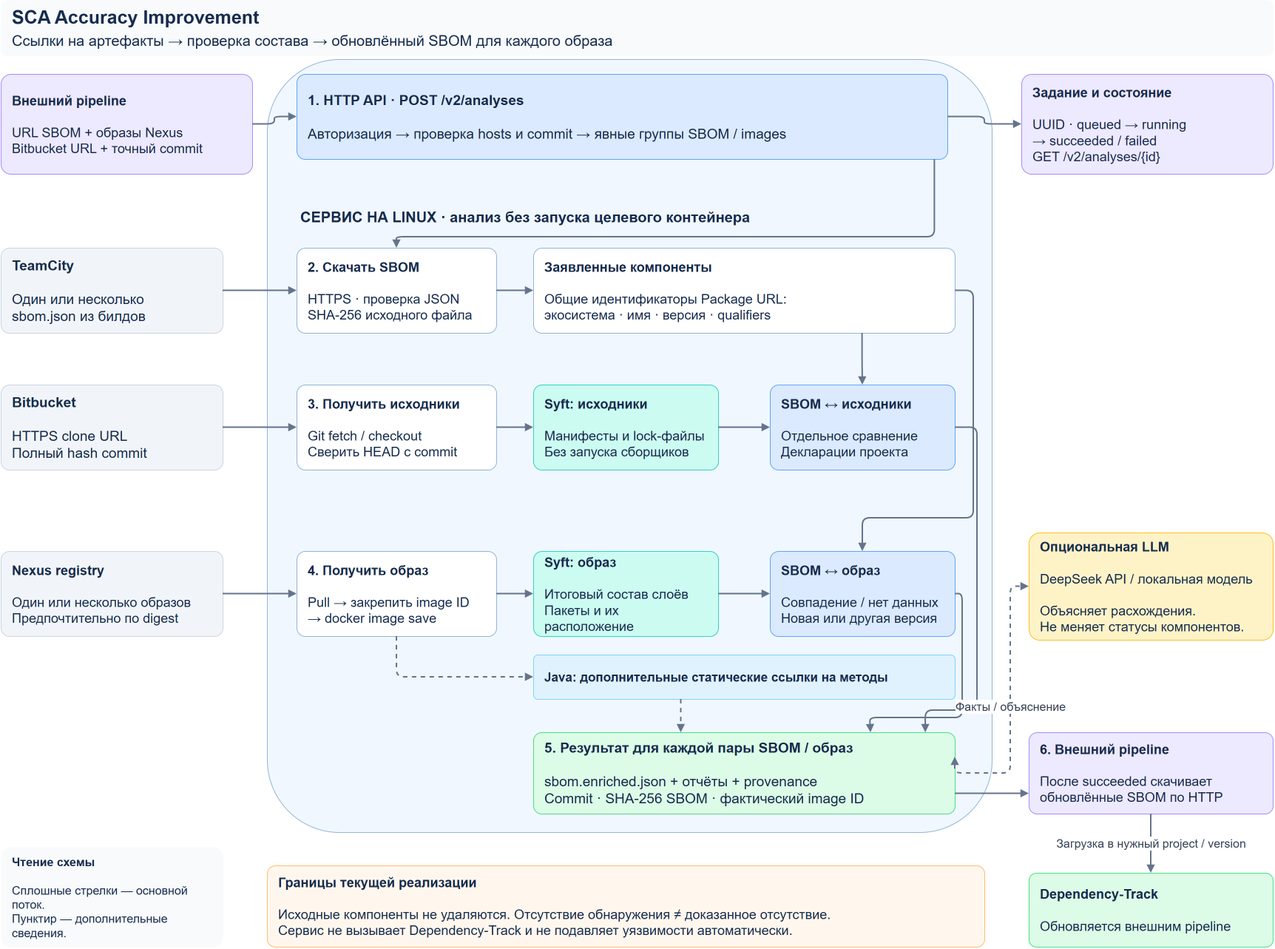
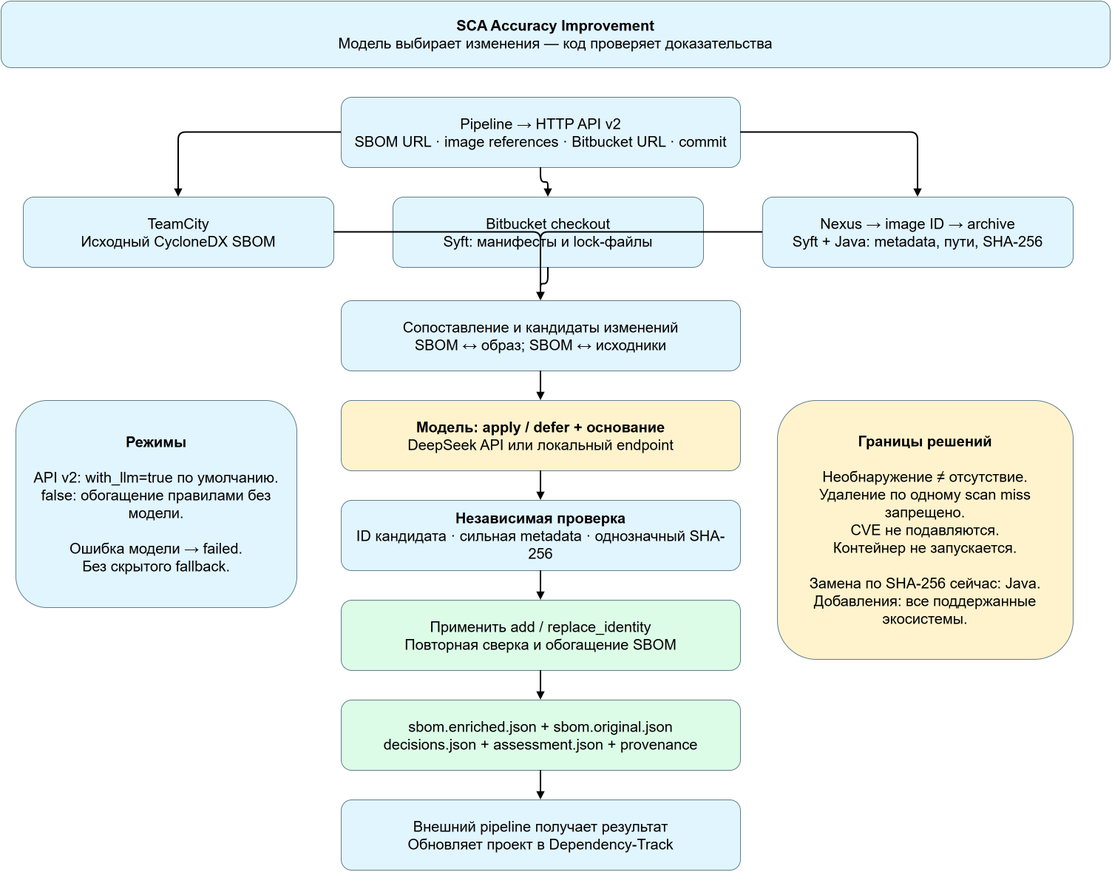
feat: enable model decisions in remote API and document workflow

diff --git a/docs/diagrams/system-workflow.html b/docs/diagrams/system-workflow.html
@@ -9,9 +9,9 @@
 </style>
 </head>
 <body>
-<header><small>SCA ACCURACY IMPROVEMENT / АРХИТЕКТУРА</small><h1>Как создаётся обновлённый SBOM</h1><p>Нажмите на узел: справа появятся его входы, действия, результат и границы ответственности. Два режима разделяют работающий код и предлагаемую роль модели.</p></header>
+<header><small>SCA ACCURACY IMPROVEMENT / АРХИТЕКТУРА</small><h1>Как создаётся обновлённый SBOM</h1><p>Нажмите на узел: справа появятся его входы, действия, результат и границы ответственности. Два реализованных режима: правила и проверяемые решения модели.</p></header>
 <main class="shell">
-<div class="toolbar" aria-label="Вариант архитектуры"><button type="button" class="mode" id="current" aria-pressed="true">Сейчас в коде</button><button type="button" class="mode" id="proposed" aria-pressed="false">Модель в центре · предложение</button></div>
+<div class="toolbar" aria-label="Вариант архитектуры"><button type="button" class="mode" id="current" aria-pressed="true">Без модели</button><button type="button" class="mode" id="proposed" aria-pressed="false">Модель + валидатор</button></div>
 <p id="notice"></p>
 <div class="layout"><section class="canvas" aria-label="Интерактивная схема потока данных"><svg id="wires" aria-hidden="true"><defs><marker id="arrow" markerWidth="8" markerHeight="8" refX="7" refY="4" orient="auto"><path d="M0,0 L8,4 L0,8 Z" fill="#92a7b6"/></marker></defs><g id="paths"></g></svg><div id="graph" class="graph"></div><div class="legend"><span>Основной поток данных</span><span>Дополнительные пояснения</span></div></section><aside id="detail" aria-live="polite" aria-label="Пояснение выбранного узла"></aside></div>
 <noscript><p class="nojs">Для раскрытия узлов включите JavaScript. Статическая схема доступна в <a href="system-workflow.png">PNG</a>.</p></noscript>
@@ -28,24 +28,24 @@ const data={
  srcscan:{title:'Syft: исходники',tag:'Декларации',sub:'Манифесты и lock-файлы',kind:'scan',summary:'Отдельный каталог того, что видно в checkout.',inputs:['Исходники выбранного commit.'],actions:['Прочитать поддерживаемые манифесты, lock-файлы и metadata.','Не запускать Maven, npm, pip install или приложение.'],outputs:['source.syft.json и сравнение SBOM ↔ исходники.'],limit:'Декларация зависимости не доказывает её попадание в образ. Это не resolution оригинального билда.',code:'catalog.py · scan(); pipeline.py · source_items'},
  imgscan:{title:'Syft: образ',tag:'Наблюдения',sub:'Пакеты и расположение',kind:'scan',summary:'Каталог компонентов итоговой файловой системы образа.',inputs:['Архив Docker image.'],actions:['Прочитать итоговое содержимое слоёв и доступные package metadata.','Дополнительно извлечь статические JVM-ссылки нашим Java-анализатором.'],outputs:['image.syft.json, наблюдения о версиях, путях и JVM-ссылках.'],limit:'Syft не ищет CVE и не определяет runtime execution. Shading, bundling и stripped binaries могут скрыть пакеты.',code:'catalog.py · observations_from_catalog(); image.py'},
  reconcile:{title:'Сопоставление и доказательства',tag:'Правила общего ядра',sub:'Два сравнения: SBOM ↔ образ и SBOM ↔ исходники',kind:'core',summary:'В текущем коде статусы определяются правилами, до обращения к модели.',inputs:['Нормализованный SBOM, каталог образа, каталог исходников.'],actions:['Сопоставить пакет и версию; выявить новые пакеты и конфликты.','Сохранить source evidence отдельно; не считать его доказательством поставки.'],outputs:['confirmed_present, version_conflict, observed_not_declared, unexpected_absent, expected_absent или identity_uncertain.'],limit:'unexpected_absent означает «не обнаружен», а не доказанное отсутствие. Maven scope учитывается только при отдельной передаче дерева локальному CLI.',code:'pipeline.py · reconcile(); sbom.py'},
- builder:{title:'Сформировать enriched SBOM',tag:'Кто изменяет документ сейчас',sub:'Детерминированные правила',kind:'output',summary:'Эта функция сейчас определяет изменения в выходном SBOM.',inputs:['Исходный SBOM и результаты сопоставления.'],actions:['Скопировать исходный документ.','Добавить статусы и evidence; включить новые обнаруженные компоненты.','Конфликтующие версии записать как аннотации, не заменяя исходные.'],outputs:['sbom.enriched.json; исходные компоненты сохраняются.'],limit:'Функция вызывается до LLM. Ответ модели ей не передаётся. Автоматического удаления компонентов нет.',code:'pipeline.py · enriched = enrich_sbom(...); sbom.py'},
+ builder:{"title": "Обогатить по правилам", "tag": "with_llm=false", "sub": "Режим без модели", "kind": "output", "summary": "Прежнее обогащение состава по фиксированным правилам.", "inputs": ["Исходный SBOM и наблюдения."], "actions": ["Добавить обнаруженные пакеты; аннотировать расхождения."], "outputs": ["sbom.enriched.json"], "limit": "Удаления и замены версий не выполняются.", "code": "sbom.py · enrich_sbom()"},
  llm:{title:'LLM: объяснить расхождения',tag:'Сейчас: опционально',sub:'DeepSeek API или локальная модель',kind:'model',summary:'Модель консультирует; решение о составе SBOM уже принято правилами.',inputs:['Структурированные discrepancies, source evidence, coverage; findings при их наличии.'],actions:['При with_llm=true и наличии расхождений/findings вернуть объяснение.','Предложить гипотезы и перечислить недостающие доказательства.'],outputs:['summary, hypotheses, warnings → отчёт.'],limit:'Ответ LLM не меняет enriched SBOM и статусы. Ошибка включённой модели сейчас завершает задание ошибкой.',code:'llm.py · analyze(); pipeline.py · llm_analysis'},
  result:{title:'Результаты задания',tag:'Отдельно для каждой пары',sub:'Обновлённый SBOM + отчёты + provenance',kind:'output',summary:'Результаты публикуются после успеха всех пар задания.',inputs:['Enriched SBOM, результаты сравнения и пояснения модели, если включена.'],actions:['Записать файлы и provenance: commit, SBOM URL и SHA-256, image ID.','Выдать ссылки на скачивание через HTTP API.'],outputs:['sbom.enriched.json, assessment.json, source-assessment.json, coverage.json, provenance.json, report.html.'],limit:'При ошибке любой пары задание failed, скачивание частичных результатов через API заблокировано. V2 не создаёт VEX и не вызывает Dependency-Track.',code:'remote.py · run_remote(); report.py · write_outputs()'},
  consumer:{title:'Внешний pipeline',tag:'Получение файлов',sub:'Дождаться succeeded и скачать SBOM',kind:'source',summary:'Внешняя система управляет дальнейшим использованием результата.',inputs:['UUID задания и список result.targets.'],actions:['Опросить статус и скачать SBOM для нужного target_id.','Выбрать соответствующий проект/version в Dependency-Track.'],outputs:['Обновлённый SBOM для внешней загрузки.'],limit:'Разные образы не объединяются автоматически в один BOM.',code:'GET /v2/analyses/{id}/targets/{target_id}/artifacts/sbom.enriched.json'},
  dtrack:{title:'Dependency-Track',tag:'За пределами сервиса',sub:'Обновление проекта внешней системой',kind:'output',summary:'Последующая обработка обновлённого SBOM в целевом проекте.',inputs:['Файл enriched SBOM, загруженный внешним pipeline.'],actions:['Обновить инвентаризацию и выполнить анализ уязвимостей в Dependency-Track.'],outputs:['Обновлённые данные проекта и findings.'],limit:'Наш сервис не выбирает UUID проекта, не пересчитывает критичность и не подавляет findings.',code:'Отдельная внешняя интеграция'},
- modeldecision:{title:'LLM: предложить корректировки',tag:'Предложение · не реализовано',sub:'Основной аналитический этап',kind:'model',summary:'Это соответствует исходному замыслу: модель анализирует доказательства и предлагает изменения SBOM.',inputs:['SBOM, каталоги образа и исходников, расхождения, ссылки на evidence.'],actions:['Разобрать неоднозначные идентичности и версии.','Сформировать структурированный план изменений с обоснованиями и ссылками на доказательства.','Воздержаться от изменения, если данных недостаточно.'],outputs:['План: добавить, уточнить, пометить как сомнительное; основание для каждого действия.'],limit:'Такого контракта ответа и применения изменений в текущем коде нет. Это архитектурное предложение, а не работающая функция.',code:'Нужен отдельный контракт proposed_changes'},
- gate:{title:'Проверить план модели',tag:'Предложение · не реализовано',sub:'Evidence, допустимые операции и структура',kind:'core',summary:'Модель предлагает смысл изменений, код проверяет возможность их применения.',inputs:['План модели и исходные доказательства.'],actions:['Проверить ссылки на evidence, исходные идентификаторы и допустимость операции.','Не разрешать удаление только на основании «не найдено».','Отклонить неподтверждённые изменения и сохранить причины.'],outputs:['Проверенный план изменений или явный отказ.'],limit:'Проверка структуры не доказывает истинность решения модели. Нужны golden-наборы и измерение качества.',code:'Нужен валидатор изменений и policy'},
- apply:{title:'Применить проверенный план',tag:'Предложение · не реализовано',sub:'Сериализация и журнал изменений',kind:'output',summary:'Код создаёт документ по плану модели, прошедшему проверку.',inputs:['Исходный SBOM и разрешённые изменения.'],actions:['Применить операции и сохранить журнал до/после.','Проверить итоговый CycloneDX и сохранить provenance.'],outputs:['Обновлённый SBOM и аудируемое обоснование каждого изменения.'],limit:'Не реализовано. Это будет отличаться от существующего enrich_sbom(), работающего по фиксированным правилам.',code:'Нужен исполнитель плана и проверки выходного BOM'}
+ modeldecision:{"title": "Модель: выбрать изменения", "tag": "with_llm=true · API v2 default", "sub": "DeepSeek / локальный endpoint", "kind": "model", "summary": "Модель принимает аналитическое решение для каждого доказуемого кандидата.", "inputs": ["Расхождения, кандидаты с ID, source evidence, coverage."], "actions": ["Выбрать apply или defer; объяснить основание.", "Вернуть структурированный JSON."], "outputs": ["decisions: candidate_id, action, reason."], "limit": "Ответ не является произвольным патчем. Ошибка модели завершает задание.", "code": "llm.py · analyze()"},
+ gate:{"title": "Проверить доказательства", "tag": "Обязательный валидатор", "sub": "Кандидаты пересчитываются кодом", "kind": "core", "summary": "Валидатор ограничивает изменения фактами сканирования.", "inputs": ["План модели, исходный SBOM, наблюдения."], "actions": ["Проверить ID и допустимую операцию.", "Для замены проверить однозначный SHA-256; для добавления — metadata."], "outputs": ["Принятые, отклонённые, отложенные, нерассмотренные решения."], "limit": "Необнаружение не разрешает удаление. CVE не подавляются.", "code": "decisions.py · candidates(), apply_plan()"},
+ apply:{"title": "Применить и сверить SBOM", "tag": "Сборщик документа", "sub": "Изменения → повторная сверка", "kind": "output", "summary": "Модель влияет на состав итогового документа через проверенный план.", "inputs": ["Принятые add / replace_identity."], "actions": ["Добавить пакет или исправить идентичность с сохранением bom-ref.", "Повторить reconcile; добавить аннотации и provenance."], "outputs": ["sbom.enriched.json, sbom.original.json, decisions.json."], "limit": "Хеши сейчас связаны с файлами Java. Без доказательств старые версии сохраняются.", "code": "pipeline.py · apply_plan() → reconcile() → enrich_sbom()"},
 };
-const graphs={current:{rows:[['request'],['sbom','source','image'],['identity','srcscan','imgscan'],['reconcile'],['builder','llm'],['result'],['consumer','dtrack']],edges:[['request','sbom'],['request','source'],['request','image'],['sbom','identity'],['source','srcscan'],['image','imgscan'],['identity','reconcile'],['srcscan','reconcile'],['imgscan','reconcile'],['reconcile','builder'],['reconcile','llm',true],['builder','result'],['llm','result',true],['result','consumer'],['consumer','dtrack']]},proposed:{rows:[['request'],['sbom','source','image'],['identity','srcscan','imgscan'],['reconcile'],['modeldecision'],['gate'],['apply'],['result'],['consumer','dtrack']],edges:[['request','sbom'],['request','source'],['request','image'],['sbom','identity'],['source','srcscan'],['image','imgscan'],['identity','reconcile'],['srcscan','reconcile'],['imgscan','reconcile'],['reconcile','modeldecision'],['modeldecision','gate'],['gate','apply'],['apply','result'],['result','consumer'],['consumer','dtrack']]}};
+const graphs={current:{rows:[['request'],['sbom','source','image'],['identity','srcscan','imgscan'],['reconcile'],['builder'],['result'],['consumer','dtrack']],edges:[['request','sbom'],['request','source'],['request','image'],['sbom','identity'],['source','srcscan'],['image','imgscan'],['identity','reconcile'],['srcscan','reconcile'],['imgscan','reconcile'],['reconcile','builder'],['builder','result'],['result','consumer'],['consumer','dtrack']]},proposed:{rows:[['request'],['sbom','source','image'],['identity','srcscan','imgscan'],['reconcile'],['modeldecision'],['gate'],['apply'],['result'],['consumer','dtrack']],edges:[['request','sbom'],['request','source'],['request','image'],['sbom','identity'],['source','srcscan'],['image','imgscan'],['identity','reconcile'],['srcscan','reconcile'],['imgscan','reconcile'],['reconcile','modeldecision'],['modeldecision','gate'],['gate','apply'],['apply','result'],['result','consumer'],['consumer','dtrack']]}};
 let mode='current', selected='builder';
 const graph=document.getElementById('graph'),detail=document.getElementById('detail'),canvas=document.querySelector('.canvas');
-function nodeData(id){const item={...data[id]};if(mode==='proposed'&&id==='reconcile'){item.summary='Предлагается использовать правила как подготовку evidence для модели, а не как окончательное решение.';item.limit='Изменение роли этого этапа пока не реализовано.'}if(mode==='proposed'&&id==='result'){item.inputs=['SBOM после применения проверенного плана модели и журнал изменений.'];item.limit='Показанный путь с планом модели — предложение. Текущий сервис формирует SBOM по фиксированным правилам.'}return item}
+function nodeData(id){return {...data[id]}}
 function section(label,items){const s=document.createElement('section'),h=document.createElement('h3'),ul=document.createElement('ul');h.textContent=label;items.forEach(value=>{const li=document.createElement('li');li.textContent=value;ul.append(li)});s.append(h,ul);return s}
 function select(id){selected=id;const item=nodeData(id);document.querySelectorAll('.node').forEach(button=>{button.setAttribute('aria-pressed',String(button.dataset.id===id));button.classList.toggle('linked',graphs[mode].edges.some(([a,b])=>(a===id&&b===button.dataset.id)||(b===id&&a===button.dataset.id)))});detail.replaceChildren();const top=document.createElement('div');top.className='detail-top';const tag=document.createElement('small'),title=document.createElement('h2'),summary=document.createElement('p');tag.textContent=item.tag;title.textContent=item.title;summary.textContent=item.summary;top.append(tag,title,summary);const body=document.createElement('div');body.className='details';body.append(section('Вход',item.inputs),section('Что делает',item.actions),section('Выход',item.outputs));const limits=document.createElement('div');limits.className='limits';limits.textContent=item.limit;const code=document.createElement('div');code.className='code';code.textContent=item.code;body.append(limits,code);detail.append(top,body);draw()}
 function draw(){const svg=document.getElementById('wires'),paths=document.getElementById('paths');paths.replaceChildren();const base=canvas.getBoundingClientRect();svg.setAttribute('viewBox',`0 0 ${base.width} ${base.height}`);graphs[mode].edges.forEach(([a,b,optional])=>{const s=document.getElementById('n-'+a).getBoundingClientRect(),t=document.getElementById('n-'+b).getBoundingClientRect();let x1=s.left+s.width/2-base.left,y1=s.bottom-base.top,x2=t.left+t.width/2-base.left,y2=t.top-base.top,d;if(Math.abs(s.top-t.top)<5){x1=s.right-base.left;y1=s.top+s.height/2-base.top;x2=t.left-base.left;y2=t.top+t.height/2-base.top;d=`M${x1},${y1} L${x2},${y2}`}else{const mid=(y1+y2)/2;d=`M${x1},${y1} C${x1},${mid} ${x2},${mid} ${x2},${y2}`}const path=document.createElementNS('http://www.w3.org/2000/svg','path');path.setAttribute('d',d);path.setAttribute('marker-end','url(#arrow)');path.setAttribute('class','wire'+(optional?' optional':'')+((a===selected||b===selected)?' active':''));paths.append(path)})}
-function render(next){mode=next;document.querySelectorAll('.mode').forEach(button=>button.setAttribute('aria-pressed',String(button.id===mode)));const notice=document.getElementById('notice');notice.className=mode==='proposed'?'proposed':'';notice.textContent=mode==='current'?'Реализовано: правила формируют enriched SBOM до вызова LLM. Модель добавляет пояснения в отчёт. Нажмите «Сформировать enriched SBOM» или «LLM», чтобы увидеть границу ответственности.':'НЕ РЕАЛИЗОВАНО. Предлагаемая архитектура: модель находится в основном потоке и формирует план корректировок, затем код проверяет доказательства и применяет допустимые изменения.';graph.replaceChildren();graphs[mode].rows.forEach(ids=>{const row=document.createElement('div');row.className='row';ids.forEach(id=>{const item=nodeData(id),button=document.createElement('button');button.type='button';button.id='n-'+id;button.dataset.id=id;button.dataset.kind=item.kind;button.className='node'+(ids.length===1?' wide':'');button.setAttribute('aria-controls','detail');button.setAttribute('aria-pressed','false');for(const [tag,cls,text] of [['span','tag',item.tag],['strong','',item.title],['span','sub',item.sub]]){const e=document.createElement(tag);e.className=cls;e.textContent=text;button.append(e)}button.addEventListener('click',()=>select(id));row.append(button)});graph.append(row)});select(mode==='current'?'builder':'modeldecision');requestAnimationFrame(draw)}
-document.getElementById('current').addEventListener('click',()=>render('current'));document.getElementById('proposed').addEventListener('click',()=>render('proposed'));new ResizeObserver(()=>requestAnimationFrame(draw)).observe(canvas);render('current');
+function render(next){mode=next;document.querySelectorAll('.mode').forEach(button=>button.setAttribute('aria-pressed',String(button.id===mode)));const notice=document.getElementById('notice');notice.className=mode==='proposed'?'proposed':'';notice.textContent=mode==='current'?'with_llm=false: обогащение правилами. Замены версий и удаления не выполняются.':'Реализовано, API v2 по умолчанию: модель выбирает изменения, валидатор проверяет evidence, сборщик создаёт SBOM. Улучшение точности живой модели ещё требует измерения.';graph.replaceChildren();graphs[mode].rows.forEach(ids=>{const row=document.createElement('div');row.className='row';ids.forEach(id=>{const item=nodeData(id),button=document.createElement('button');button.type='button';button.id='n-'+id;button.dataset.id=id;button.dataset.kind=item.kind;button.className='node'+(ids.length===1?' wide':'');button.setAttribute('aria-controls','detail');button.setAttribute('aria-pressed','false');for(const [tag,cls,text] of [['span','tag',item.tag],['strong','',item.title],['span','sub',item.sub]]){const e=document.createElement(tag);e.className=cls;e.textContent=text;button.append(e)}button.addEventListener('click',()=>select(id));row.append(button)});graph.append(row)});select(mode==='current'?'builder':'modeldecision');requestAnimationFrame(draw)}
+document.getElementById('current').addEventListener('click',()=>render('current'));document.getElementById('proposed').addEventListener('click',()=>render('proposed'));new ResizeObserver(()=>requestAnimationFrame(draw)).observe(canvas);render('proposed');
 </script>
 </body>
 </html>

diff --git a/src/sca_accuracy/pipeline.py b/src/sca_accuracy/pipeline.py
@@ -72,6 +72,7 @@ def run_analysis(config: AnalysisConfig) -> dict[str, Any]:
     decision_audit = None
     corrected = sbom
     if config.with_llm:
+        llm_config = LlmConfig.from_environment()
         llm_analysis = analyze(
             {
                 "image": config.image,
@@ -82,7 +83,7 @@ def run_analysis(config: AnalysisConfig) -> dict[str, Any]:
                 "source_evidence": [item.to_dict() for item in source_items],
                 "candidates": candidates(sbom, observations),
             },
-            LlmConfig.from_environment(),
+            llm_config,
         )
         corrected, decision_audit = apply_plan(sbom, observations, llm_analysis["decisions"])
         _write_json(config.output / "decisions.json", decision_audit)

diff --git a/src/sca_accuracy/remote.py b/src/sca_accuracy/remote.py
@@ -33,7 +33,7 @@ class RemoteAnalysisRequest(BaseModel):
     repository_url: str = Field(min_length=1, max_length=2048)
     commit: str = Field(pattern=r"^(?:[0-9a-fA-F]{40}|[0-9a-fA-F]{64})$")
     targets: list[BuildTarget] = Field(min_length=1, max_length=16)
-    with_llm: bool = False
+    with_llm: bool = True
 
     @model_validator(mode="after")
     def unique_targets(self) -> RemoteAnalysisRequest:

diff --git a/src/sca_accuracy/decisions.py b/src/sca_accuracy/decisions.py
@@ -90,6 +90,7 @@ def apply_plan(
             or not isinstance(reason, str)
             or not reason.strip()
             or len(reason) > 4000
+            or not isinstance(decision.get("action"), str)
             or decision.get("action") not in {"apply", "defer"}
             or cid in seen
         ):

diff --git a/docs/diagrams/README.md b/docs/diagrams/README.md
@@ -1,7 +1,7 @@
 # Схема работы системы
 
 - `system-workflow.html` — автономная интерактивная схема: нажмите узел для пояснения.
-  Режим «Сейчас в коде» соответствует реализации; «Модель в центре» — предложение, не реализованный функционал.
+  Режимы «Без модели» и «Модель + валидатор» соответствуют реализации. API v2 по умолчанию использует второй.
   Откройте скачанный HTML в браузере; GitHub не исполняет HTML-файлы репозитория.
 
 - `system-workflow.drawio` — исходная редактируемая схема draw.io / diagrams.net.
